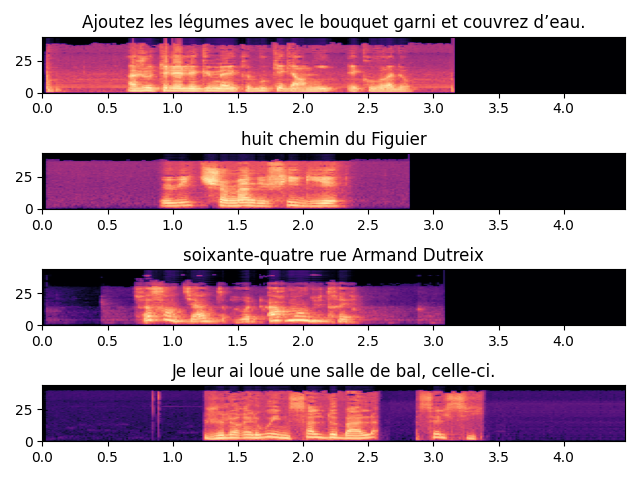
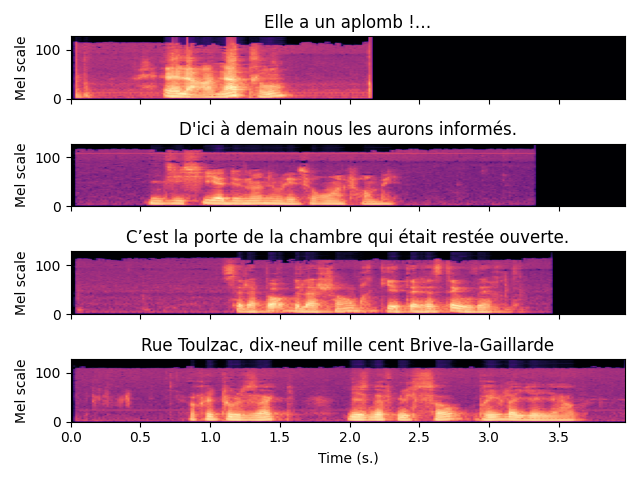
upd

diff --git a/test_data.py b/test_data.py
@@ -94,7 +94,7 @@ class TrimZeroPad(object):
         rates = set([r for _, r, _ in batch])
         transcripts = [d['sentence'] for _, _, d in batch]
         # Retrieve the maximal length in the list of waveforms
-        max_len = max([w.shape[1] for w in waveforms])
+        # max_len = max([w.shape[1] for w in waveforms])
 
         # Pad and stack the variable length tensors
         # waveforms is a 2D tensor (Batch, Time)
@@ -107,6 +107,9 @@ class TrimZeroPad(object):
 
 
 def test002():
+    """
+    Plot the MelSpectrogram using torchaudio transforms
+    """
     import numpy as np
     import matplotlib.pyplot as plt
     batch_size = 4
@@ -121,36 +124,34 @@ def test002():
 
     waveforms, rate, transcripts = next(iter(loader))
 
-    win_length = 25 # ms
-    win_step = 15 # ms
+    win_length = 25  # ms
+    win_step = 15  # ms
     nfft = int(win_length*1e-3*rate)
     nstep = int(win_step * 1e-3 * rate)
 
     transform = nn.Sequential(
         MelSpectrogram(sample_rate=rate,
-                      n_fft=nfft,
-                      hop_length=nstep),
+                       n_fft=nfft,
+                       hop_length=nstep),
         AmplitudeToDB()
     )
     spectro = transform(waveforms)
 
-    fig, axes = plt.subplots(nrows=batch_size, ncols=1)
+    _, axes = plt.subplots(nrows=batch_size, ncols=1, sharex=True)
     for iax, (ax, spectroi) in enumerate(zip(axes, spectro)):
         # spectroi is of shape n_mel x n_steps
         ax.imshow(spectroi,
                   extent=[0, spectroi.shape[1]*win_step*1e-3,
-                          0, spectro.max()],
+                          0, spectroi.shape[0]],
                   aspect='auto',
                   cmap='magma',
-                 origin='lower')
+                  origin='lower')
+        ax.set_ylabel('Mel scale')
         ax.set_title('{}'.format(transcripts[iax]))
-        ax.set_label("Time (s.)")
+    plt.xlabel('Time (s.)')
     plt.tight_layout()
     plt.savefig('specro.png')
     plt.show()
-
-
-
 
 
 if __name__ == '__main__':
